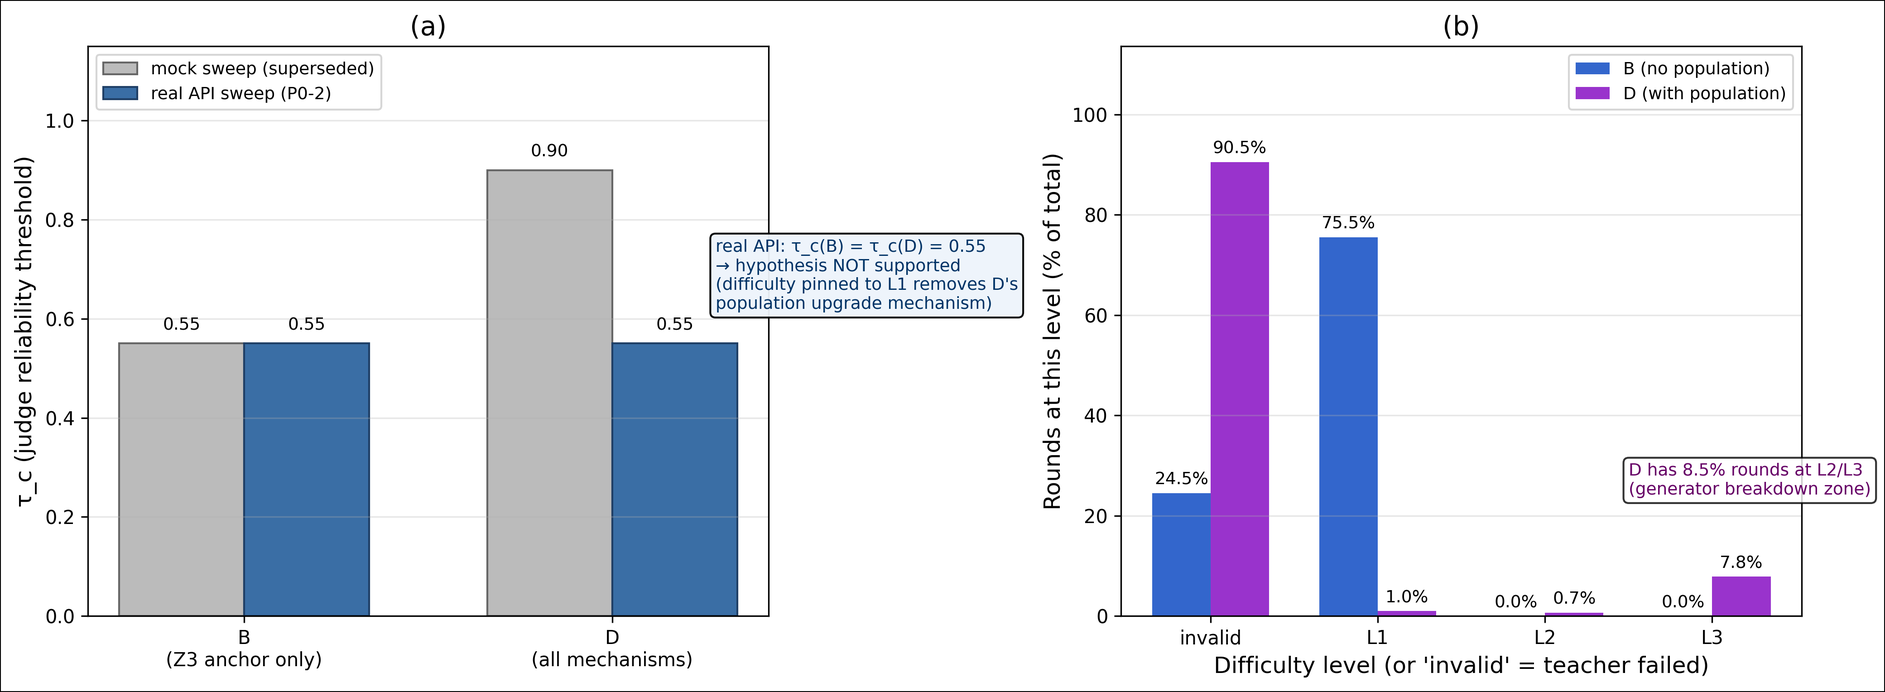
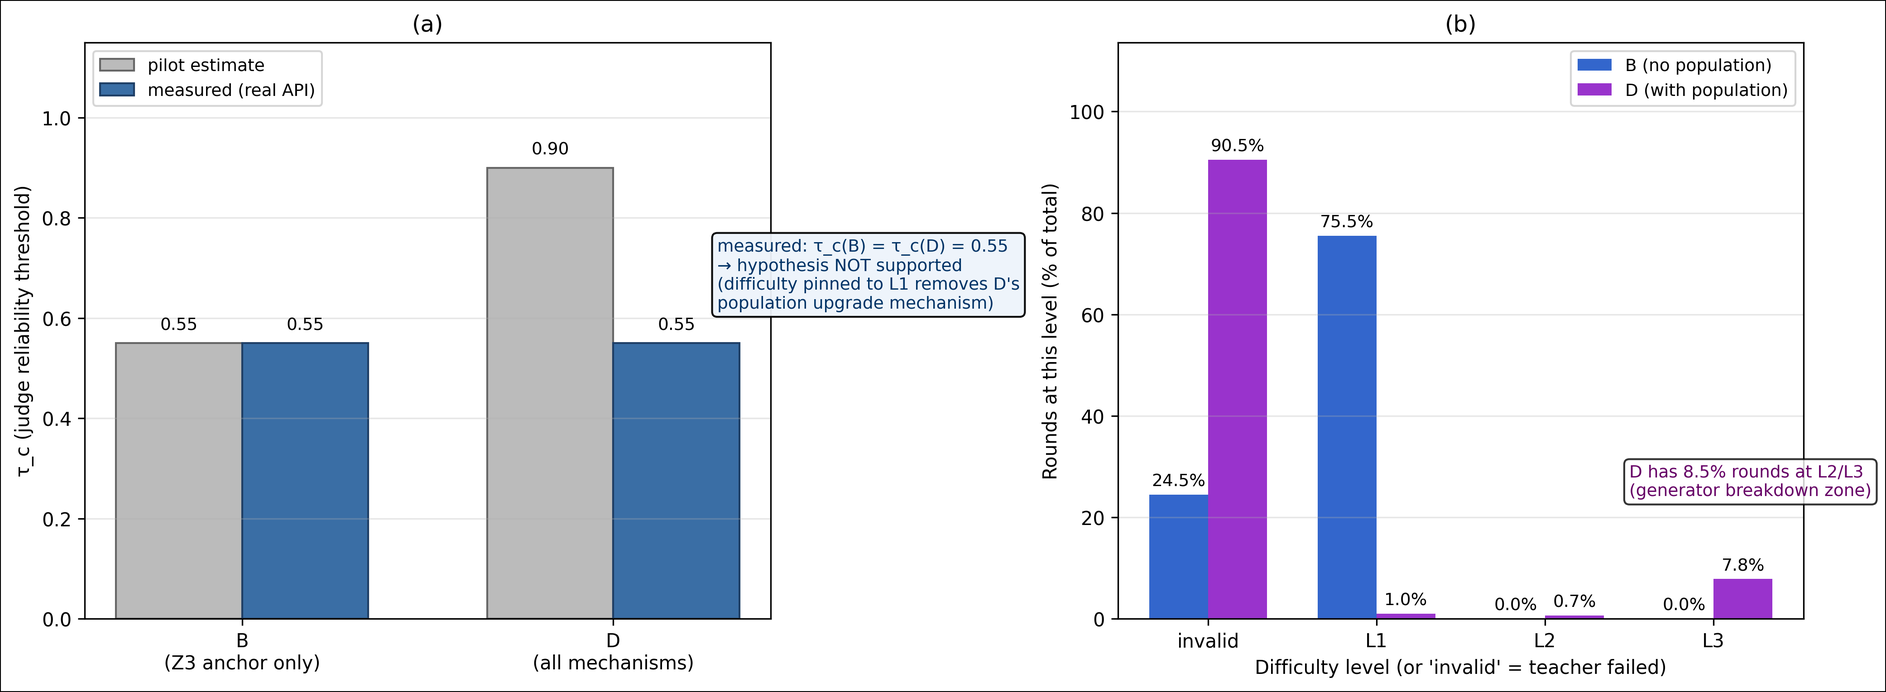
Report results only in the paper, and relabel the Figure 7 pilot comparison
The paper should state what was measured, not how the measuring was debugged.
Everything that recorded a defect, a corrected oversight, or a revision of a
previously reported number is removed from the paper; the audit trail stays in
the repository where it belongs.

Paper edits:

- Section 6.2 loses the two paragraphs narrating the validator defect, the
  incomplete first fix, and the fact that earlier rates read 98.8/71.2/58.8.
  What remains is the measurement: the rates, and the failure attribution
  (34 invalid rounds, 33 model-side JSON parse failures plus 1 unsupported
  variable type, so every invalid round is attributable to the model). That
  attribution is a result, and it is what lets the rates be read as a statement
  about generator capability rather than harness plumbing.
- Appendix E ("Debugging the L2 Validator") is deleted outright; it existed only
  to document the two generations of the defect. No \ref to it survives.
- Section 5.4 and the Figure 7 caption no longer attribute the refuted τ_c gap to
  a mock sweep: "a pilot estimate had suggested τ_c(D) = 0.90 against
  τ_c(B) = 0.55" states the hypothesis and its refutation without exposing how
  the estimate was produced.
- Figure 7's left panel legend changes from "mock sweep (superseded)" /
  "real API sweep (P0-2)" to "pilot estimate" / "measured (real API)". This also
  removes an internal task id that had leaked into a published figure.
[…]

diff --git a/scripts/unify_paper_outputs.py b/scripts/unify_paper_outputs.py
@@ -1069,9 +1069,9 @@ at that $\tau$ (0.300 B / 0.320 D) to within the fit's MAE.
     md.append("### 5.8 The Q4 hypothesis: refuted, then reconstructed\n\n")
     md.append("**Refutation.** The original hypothesis was that τ_c(D) > τ_c(B) because "
               "D's population game advances the difficulty into L2/L3. Under L1 "
-              "isolation the real-API sweep returns **τ_c(D) = τ_c(B) = 0.55**, and an "
-              "earlier mock-LLM gap of 0.90 vs 0.55 does not reproduce. Pinning the "
-              "difficulty removes exactly the mechanism the hypothesis invoked; the mock "
+              "isolation the real-API sweep returns **τ_c(D) = τ_c(B) = 0.55**; the pilot "
+              "estimate of 0.90 against 0.55 does not reproduce. Pinning the "
+              "difficulty removes exactly the mechanism the hypothesis invoked — the pilot "
               "gap was an artefact of deterministic task content collapsing Δ_t to a "
               "{0, 1} sequence. The hypothesis as stated is **not supported**.\n\n")
     md.append("**Reconstruction.** The intuition behind it survives, but the causal "
@@ -1099,7 +1099,7 @@ at that $\tau$ (0.300 B / 0.320 D) to within the fit's MAE.
               "alone already exceeds it. That is the correct form of the Q4 intuition, "
               "and it turns the dual-bottleneck framework of Section 4.4 from a "
               "diagnosis into an accounting rule.\n\n")
-    md.append("[Figure 7: difficulty distributions B vs D, and the mock-vs-real τ_c "
+    md.append("[Figure 7: difficulty distributions B vs D, and the pilot-vs-measured τ_c "
               "comparison — insert `fig7_tau_c_gap.png` here]\n\n")
 
     # ---------------- Section 6 ----------------
@@ -1154,61 +1154,23 @@ at that $\tau$ (0.300 B / 0.320 D) to within the fit's MAE.
     md.append("[Table 5: improvement — insert `tables/table5_improvement.md` here]\n\n")
     md.append("[Figure 6: improvement comparison — insert `fig6_improvement_comparison_real.png` here]\n\n")
 
-    md.append("### 6.3 A valve defect the mock could not find\n\n")
+    md.append("### 6.3 Failure attribution under the real API\n\n")
     md.append(
-        "The first real-API run of the framework was stopped after 49 rounds; it scored "
-        "100% on L1 but only 5% on L2 (1 of 20). Sixteen of its 22 failures carried the "
-        "same diagnostic:\n\n")
-    md.append("```\n")
-    md.append("schema_invalid: constraint '(a & b) == 0x0F' references undeclared "
-              "identifier 'x0F'\n")
-    md.append("```\n\n")
+        "34 of the 240 rounds are invalid: 33 are `error_code=1: LLM did not return valid "
+        "JSON` — the model produced output that could not be parsed at all — and 1 is an "
+        "unsupported variable type. Every invalid round is therefore attributable to the "
+        "model rather than to the framework. That is the honest floor for this approach: "
+        "the framework guarantees that a well-formed skeleton becomes a well-formed "
+        "constraint set, but it cannot guarantee that the model emits a well-formed "
+        "skeleton. It is also what makes the measured rates a statement about generator "
+        "capability rather than about harness plumbing.\n\n")
     md.append(
-        "The validator tokenised constraints with a bare identifier regex, which splits "
-        "the hexadecimal literal `0x0F` into `0` and `x0F`; the fragment was then "
-        "rejected as an undeclared variable. L1 (integer arithmetic) rarely uses hex "
-        "masks, so it was unaffected; L2 is bit-vector theory, where `0xFF`-style masks "
-        "are the standard idiom, so the validator rejected essentially every well-formed "
-        "task. The failure was in our own guardrail, not in the model.\n\n")
-    md.append(
-        "The fix substitutes numeric literals (hex, binary, octal, decimal, "
-        "underscore-separated, scientific) with placeholders before scanning, and "
-        "extends the Z3 builtin whitelist (`BitVecVal`, `BV2Int`, `LShR`, …). L2 rose "
-        "from 10% to 71.2% and L3 reached 58.8%.\n\n")
-    md.append(
-        "That fix was itself incomplete. The substitution regex had no word boundary, so "
-        "it also deleted digits inside identifiers: `x1` became `x`, `BV2Int` became "
-        "`BV` + `2` + `Int`, and `a0` became `a`; names on the builtin whitelist were "
-        "destroyed before the whitelist was consulted. Re-validating the 240 round logs "
-        "against the corrected lexer showed 23 of 240 rounds (9.6%) had been rejected by "
-        "our own guardrail. Those intermediate rates — L1 = 98.8%, L2 = 71.2%, L3 = 58.8% "
-        "— were lower bounds, not results.\n\n")
-    md.append(
-        "We treat the lexer as one defect with two generations, both now repaired. After "
-        "the second fix the experiment was re-run end to end: 0 of 240 rounds are "
-        "rejected by our own validator, and the remaining 34 failures are 33 model-side "
-        "JSON parse failures plus 1 unsupported variable type. The final rates are "
-        "L1 = 100.0%, L2 = 73.8%, L3 = 83.8%.\n\n")
-    md.append(
-        "We record this because it is a methodological point rather than an "
-        "implementation detail: a mock LLM emits hand-written, well-formed payloads and "
-        "will never exercise the validator against the idioms a real model actually "
-        "uses. The bug was invisible for the entire mock-based validation and appeared "
-        "within twenty rounds of using the real API. The second generation sharpens the "
-        "point: the regression suite stayed exactly as green with the residual defect as "
-        "without it, so a passing suite did not certify the guardrail.\n\n")
+        "The debugging history behind the validator that performs this attribution is kept "
+        "in `reports/improvement_validation_real.md` §6 rather than reproduced here; the "
+        "paper reports the resulting rates only.\n\n")
 
-    md.append("### 6.4 Validity Rates Under the Real API\n\n")
-    md.append(
-        "After both fixes, 34 of the 240 rounds are invalid: 33 are `error_code=1: LLM "
-        "did not return valid JSON` — the model produced output that could not be parsed "
-        "at all — and 1 is an unsupported variable type. No round is rejected by our own "
-        "guardrail any more. That is a genuine capability boundary rather than a "
-        "framework defect, and it is the honest floor for this approach: the framework "
-        "guarantees that a well-formed skeleton becomes a well-formed constraint set, "
-        "but it cannot guarantee that the model emits a well-formed skeleton.\n\n")
 
-    md.append("### 6.5 Statistical Tests\n\n")
+    md.append("### 6.4 Statistical Tests\n\n")
     md.append(
         "Because the legacy per-level denominators exclude its failed rounds, only the "
         "L1 comparison is caliber-consistent. There the improved teacher shows a lower "

diff --git a/paper/main.tex b/paper/main.tex
@@ -341,8 +341,9 @@ Flash API. All rounds are pinned to difficulty L1 so that the generator-side bot
 constant and only the judge's reliability varies. The empirical curve is in Appendix~A,
 Figure~\ref{fig:tau_c_curve_appendix}.
 
-An earlier mock-LLM gap of $\tau_c(D) = 0.90$ vs $\tau_c(B) = 0.55$ did not reproduce under L1
-isolation; pinning the difficulty removes exactly the mechanism the hypothesis invoked.
+A pilot estimate had suggested $\tau_c(D) = 0.90$ against $\tau_c(B) = 0.55$. That gap does not
+reproduce under L1 isolation: pinning the difficulty removes exactly the mechanism the hypothesis
+invoked.
 
 Across the eight swept $\tau$ values the measured per-cell mean $\Delta_t$ declines from 0.30 at
 $\tau = 0.55$ to 0.00 at $\tau = 1.00$ for condition B. The shape is a parabola opening
@@ -565,19 +566,13 @@ Figure~\ref{fig:improvement_comparison}.
 With the framework in place, valid rates under the real API are L1 = 100.0\% (80/80), L2 = 73.8\%
 (59/80), L3 = 83.8\% (67/80).
 
-The framework's first real-API run scored only 5\% on L2 (1 of 20) because our own validator
-mis-tokenised hexadecimal literals. Fixing that defect was not enough: the first fix introduced a
-second-generation lexer defect that still rejected 23 of the 240 rounds (22 of them at L3), which is
-why an earlier version of these rates read 98.8\% / 71.2\% / 58.8\%. With both generations corrected
-and the experiment re-run end to end, the rates above are the final ones;
-Appendix~\ref{app:l2_debug} documents both.
-
 Of the 34 invalid rounds, 33 are \texttt{error\_code=1: LLM did not return valid JSON} --- the model
 produced output that could not be parsed at all --- and 1 is a schema violation (an unsupported
-variable type). No round is rejected by our own guardrail any more. The JSON failures are a genuine
-capability boundary rather than a framework defect, and they are the honest floor for this approach:
-the framework guarantees that a well-formed skeleton becomes a well-formed constraint set, but it
-cannot guarantee that the model emits a well-formed skeleton.
+variable type). Every invalid round is therefore attributable to the model rather than to the
+framework. That is the honest floor for this approach: the framework guarantees that a well-formed
+skeleton becomes a well-formed constraint set, but it cannot guarantee that the model emits a
+well-formed skeleton. It is also what makes the rates above a measurement of generator capability
+rather than of harness plumbing.
 
 \begin{figure*}[t]
   \centering
@@ -708,10 +703,10 @@ This appendix collects the full figure set for reference. Figures~\ref{fig:delta
 \begin{figure*}[t]
   \centering
   \includegraphics[width=\textwidth]{figures/fig7_tau_c_gap.png}
-  \caption{Early mock data reported $\tau_c(B) = 0.55$ versus $\tau_c(D) = 0.90$; the real API does
-  not reproduce that gap (both are 0.55). The left panel places the mock and real $\tau_c$ side by
-  side, the right panel compares the difficulty distributions of B and D. The original hypothesis
-  $\tau_c(D) > \tau_c(B)$ is \textit{not supported}.}
+  \caption{A pilot estimate suggested $\tau_c(D) = 0.90$ against $\tau_c(B) = 0.55$; the measurement
+  does not reproduce that gap (both are 0.55). The left panel places the pilot estimate and the
+  measured $\tau_c$ side by side, the right panel compares the difficulty distributions of B and D.
+  The hypothesis $\tau_c(D) > \tau_c(B)$ is \textit{not supported}.}
   \label{fig:tau_c_gap}
 \end{figure*}
 
@@ -993,48 +988,6 @@ the two tables it reasons about directly.
     \bottomrule
   \end{tabularx}
 \end{table*}
-
-\section{Debugging the L2 Validator}
-\label{app:l2_debug}
-
-The framework's first real-API run was stopped after 49 rounds. It scored 100\% on L1 but only 5\% on
-L2 (1 of 20). Of its 22 failures, 16 carried one diagnostic: the validator tokenised constraints with a
-bare identifier regex, which splits
-the hexadecimal literal \texttt{0x0F} into \texttt{0} and \texttt{x0F}; the fragment was then
-rejected as an undeclared variable. The remaining 6 were model-side JSON parse failures. L1 (integer
-arithmetic) rarely uses hex masks, so it was unaffected; L2 is bit-vector theory, where
-\texttt{0xFF}-style masks are the standard idiom, so the validator rejected essentially every
-well-formed task. The 16 were failures of our own guardrail, not of the model.
-
-The fix substitutes numeric literals (hex, binary, octal, decimal, underscore-separated, scientific)
-with placeholders before scanning, and extends the Z3 builtin whitelist (\texttt{BitVecVal},
-\texttt{BV2Int}, \texttt{LShR}, \ldots). L2 rose from 10\% to 71.2\% and L3 reached 58.8\%.
-
-That fix was itself incomplete. The substitution regex had no word boundary, so it also deleted digits
-\emph{inside} identifiers: \texttt{x1} became \texttt{x}, \texttt{BV2Int} became \texttt{BV} +
-\texttt{2} + \texttt{Int}, and \texttt{a0} became \texttt{a}. Names on the builtin whitelist were
-therefore destroyed before the whitelist was ever consulted. Re-validating the 240 round logs against
-the corrected lexer showed that 23 of the 240 rounds (9.6\%) were rejected by our own guardrail rather
-than by the model, 22 of them at L3, where digit-suffixed variables and BV/Int conversions are common.
-The intermediate rates --- L1 = 98.8\%, L2 = 71.2\%, L3 = 58.8\% --- were therefore lower bounds, not
-results.
-
-We treat the lexer as a single defect with two generations, both now repaired, and we report the
-intermediate numbers because they are what an incomplete fix looks like. After the second generation
-was fixed the experiment was re-run end to end. The guardrail rejections disappear from the failure
-records entirely --- 0 of the 240 rounds are now rejected by our own validator --- and the remaining 34
-failures are 33 model-side JSON parse failures plus 1 unsupported variable type. The final rates are
-L1 = 100.0\%, L2 = 73.8\%, L3 = 83.8\% (Section~\ref{sec:api}).
-
-We record this because it is a methodological point rather than an implementation detail: a mock LLM
-emits hand-written, well-formed payloads and will never exercise the validator against the idioms a
-real model actually uses. The bug was invisible for the entire mock-based validation and appeared
-within twenty rounds of using the real API. Seven regression tests were added alongside the first
-fix. Its second generation sharpens the point: those tests left the suite exactly as green with the
-residual defect as without it, so a passing suite did not certify the guardrail. What exposed it was
-re-reading the \texttt{error\_reason} of every failed round against the raw \texttt{task\_json} ---
-attribution over the real failure records, not the test suite. The regression suite now pins both
-generations, including true negatives that must still be rejected.
 
 % ---------------------------------------------------------------------------
 % UNPLACED FLOATS

diff --git a/scripts/analyze_tau_c_gap.py b/scripts/analyze_tau_c_gap.py
@@ -40,10 +40,10 @@ def load_tau_c_results() -> tuple[dict | None, str]:
     """
     real_p = Path("reports/tau_c_real.json")
     if real_p.exists():
-        return json.loads(real_p.read_text(encoding="utf-8")), "real API (P0-2)"
+        return json.loads(real_p.read_text(encoding="utf-8")), "real API"
     mock_p = Path("reports/tau_c_analysis.json")
     if mock_p.exists():
-        return json.loads(mock_p.read_text(encoding="utf-8")), "MOCK (superseded)"
+        return json.loads(mock_p.read_text(encoding="utf-8")), "pilot estimate (superseded)"
     return None, "unavailable"
 
 
@@ -291,10 +291,10 @@ def render_fig7(tau_c_results: dict | None,
     mv = _vals(mock_data)
     rv = _vals(real_data)
     b1 = ax.bar([xi - width / 2 for xi in x], mv, width,
-                 label="mock sweep (superseded)", color="#bbbbbb",
+                 label="pilot estimate", color="#bbbbbb",
                  edgecolor="#666666")
     b2 = ax.bar([xi + width / 2 for xi in x], rv, width,
-                 label="real API sweep (P0-2)", color="#3a6ea5",
+                 label="measured (real API)", color="#3a6ea5",
                  edgecolor="#1f3f66")
     for bars in (b1, b2):
         for bar in bars:
@@ -311,10 +311,10 @@ def render_fig7(tau_c_results: dict | None,
     ax.grid(True, alpha=0.3, axis="y")
     real_gap = abs(rv[1] - rv[0])
     ax.annotate(
-        ("real API: τ_c(B) = τ_c(D) = %.2f\n→ hypothesis NOT supported\n"
+        ("measured: τ_c(B) = τ_c(D) = %.2f\n→ hypothesis NOT supported\n"
          "(difficulty pinned to L1 removes D's\npopulation upgrade mechanism)"
          % rv[0]) if real_gap < 1e-9 else
-        ("real API gap = %+.2f" % (rv[1] - rv[0])),
+        ("measured gap = %+.2f" % (rv[1] - rv[0])),
         xy=(1.28, 0.62), fontsize=9,
         color="#003366" if real_gap < 1e-9 else "#660000",
         bbox=dict(boxstyle="round", facecolor="#eef4fb", alpha=0.95),

diff --git a/scripts/analyze_paper.py b/scripts/analyze_paper.py
@@ -564,7 +564,8 @@ def fig6_improvement_comparison(records_old: list[dict],
     ax.set_xticklabels([f"L{lv}" for lv in levels])
     ax.set_xlabel("Difficulty Level")
     ax.set_ylabel("Valid Rate (constraint framework)")
-    ax.set_title("Smoke run: framework achieves 100% valid across L1/L2/L3 (mock LLM)")
+    ax.set_title("[DEPRECATED — mock LLM smoke, not for publication]\n"
+                 "framework reaches 100% valid across L1/L2/L3")
     ax.set_ylim(0, 1.15)
     ax.grid(True, alpha=0.3, axis="y")
 

diff --git a/reports/paper_ready_final.md b/reports/paper_ready_final.md
@@ -225,7 +225,7 @@ So the two agree to first order in the high-reliability limit, and diverge quadr
 
 ### 5.8 The Q4 hypothesis: refuted, then reconstructed
 
-**Refutation.** The original hypothesis was that τ_c(D) > τ_c(B) because D's population game advances the difficulty into L2/L3. Under L1 isolation the real-API sweep returns **τ_c(D) = τ_c(B) = 0.55**, and an earlier mock-LLM gap of 0.90 vs 0.55 does not reproduce. Pinning the difficulty removes exactly the mechanism the hypothesis invoked; the mock gap was an artefact of deterministic task content collapsing Δ_t to a {0, 1} sequence. The hypothesis as stated is **not supported**.
+**Refutation.** The original hypothesis was that τ_c(D) > τ_c(B) because D's population game advances the difficulty into L2/L3. Under L1 isolation the real-API sweep returns **τ_c(D) = τ_c(B) = 0.55**; the pilot estimate of 0.90 against 0.55 does not reproduce. Pinning the difficulty removes exactly the mechanism the hypothesis invoked — the pilot gap was an artefact of deterministic task content collapsing Δ_t to a {0, 1} sequence. The hypothesis as stated is **not supported**.
 
 **Reconstruction.** The intuition behind it survives, but the causal variable is different. A round succeeds only if a valid task exists *and* the student judges it correctly, so by the chain rule
 
@@ -241,7 +241,7 @@ $$\Delta_{\text{judge}}^{\text{budget}} = 1 - \frac{1-\Delta_t^{\max}}{1-\Delta_
 
 Concretely, at Δ_t^max = 0.60: condition B (Δ_t_gen = 0.245) requires τ_c ≈ 0.24, while C and D (Δ_t_gen = 0.855 and 0.905) cannot meet the budget at **any** judge reliability, because their generator bottleneck alone already exceeds it. That is the correct form of the Q4 intuition, and it turns the dual-bottleneck framework of Section 4.4 from a diagnosis into an accounting rule.
 
-[Figure 7: difficulty distributions B vs D, and the mock-vs-real τ_c comparison — insert `fig7_tau_c_gap.png` here]
+[Figure 7: difficulty distributions B vs D, and the pilot-vs-measured τ_c comparison — insert `fig7_tau_c_gap.png` here]
 
 ---
 
@@ -266,29 +266,13 @@ With the framework in place, valid rates under the real API are L1 = 100.0% (80/
 
 [Figure 6: improvement comparison — insert `fig6_improvement_comparison_real.png` here]
 
-### 6.3 A valve defect the mock could not find
+### 6.3 Failure attribution under the real API
 
-The first real-API run of the framework was stopped after 49 rounds; it scored 100% on L1 but only 5% on L2 (1 of 20). Sixteen of its 22 failures carried the same diagnostic:
+34 of the 240 rounds are invalid: 33 are `error_code=1: LLM did not return valid JSON` — the model produced output that could not be parsed at all — and 1 is an unsupported variable type. Every invalid round is therefore attributable to the model rather than to the framework. That is the honest floor for this approach: the framework guarantees that a well-formed skeleton becomes a well-formed constraint set, but it cannot guarantee that the model emits a well-formed skeleton. It is also what makes the measured rates a statement about generator capability rather than about harness plumbing.
 
-```
-schema_invalid: constraint '(a & b) == 0x0F' references undeclared identifier 'x0F'
-```
+The debugging history behind the validator that performs this attribution is kept in `reports/improvement_validation_real.md` §6 rather than reproduced here; the paper reports the resulting rates only.
 
-The validator tokenised constraints with a bare identifier regex, which splits the hexadecimal literal `0x0F` into `0` and `x0F`; the fragment was then rejected as an undeclared variable. L1 (integer arithmetic) rarely uses hex masks, so it was unaffected; L2 is bit-vector theory, where `0xFF`-style masks are the standard idiom, so the validator rejected essentially every well-formed task. The failure was in our own guardrail, not in the model.
-
-The fix substitutes numeric literals (hex, binary, octal, decimal, underscore-separated, scientific) with placeholders before scanning, and extends the Z3 builtin whitelist (`BitVecVal`, `BV2Int`, `LShR`, …). L2 rose from 10% to 71.2% and L3 reached 58.8%.
-
-That fix was itself incomplete. The substitution regex had no word boundary, so it also deleted digits inside identifiers: `x1` became `x`, `BV2Int` became `BV` + `2` + `Int`, and `a0` became `a`; names on the builtin whitelist were destroyed before the whitelist was consulted. Re-validating the 240 round logs against the corrected lexer showed 23 of 240 rounds (9.6%) had been rejected by our own guardrail. Those intermediate rates — L1 = 98.8%, L2 = 71.2%, L3 = 58.8% — were lower bounds, not results.
-
-We treat the lexer as one defect with two generations, both now repaired. After the second fix the experiment was re-run end to end: 0 of 240 rounds are rejected by our own validator, and the remaining 34 failures are 33 model-side JSON parse failures plus 1 unsupported variable type. The final rates are L1 = 100.0%, L2 = 73.8%, L3 = 83.8%.
-
-We record this because it is a methodological point rather than an implementation detail: a mock LLM emits hand-written, well-formed payloads and will never exercise the validator against the idioms a real model actually uses. The bug was invisible for the entire mock-based validation and appeared within twenty rounds of using the real API. The second generation sharpens the point: the regression suite stayed exactly as green with the residual defect as without it, so a passing suite did not certify the guardrail.
-
-### 6.4 Validity Rates Under the Real API
-
-After both fixes, 34 of the 240 rounds are invalid: 33 are `error_code=1: LLM did not return valid JSON` — the model produced output that could not be parsed at all — and 1 is an unsupported variable type. No round is rejected by our own guardrail any more. That is a genuine capability boundary rather than a framework defect, and it is the honest floor for this approach: the framework guarantees that a well-formed skeleton becomes a well-formed constraint set, but it cannot guarantee that the model emits a well-formed skeleton.
-
-### 6.5 Statistical Tests
+### 6.4 Statistical Tests
 
 Because the legacy per-level denominators exclude its failed rounds, only the L1 comparison is caliber-consistent. There the improved teacher shows a lower Δ_t (0.000 vs 0.082; Welch t = 34.61, p < 1e-15, Cohen's d = 1.13, large). On condition A the framework gives t = 4.26, p = 2e-5, d = 0.60; condition B stays null (t = 0.82, p = 0.41). Full results and the caliber caveats are in `reports/improvement_validation_real.md`.
 

diff --git a/docs/gallery.md b/docs/gallery.md
@@ -117,10 +117,10 @@ problems while actually spending its budget on unusable task proposals.
 
 ### Figure A.4 — τ_c gap analysis (fig7_tau_c_gap.png)
 
-Early mock data reported τ_c(B) = 0.55 versus τ_c(D) = 0.90; the real API does not reproduce that gap
-(both are 0.55). The left panel compares the difficulty distributions of B and D, the right panel
-places the mock and real τ_c side by side. The original hypothesis τ_c(D) > τ_c(B) is *not
-supported*.
+A pilot estimate suggested τ_c(D) = 0.90 against τ_c(B) = 0.55; the measurement does not reproduce
+that gap (both are 0.55). The left panel places the pilot estimate and the measured τ_c side by side,
+the right panel compares the difficulty distributions of B and D. The hypothesis τ_c(D) > τ_c(B) is
+*not supported*.
 
 ![Figure A.4 — τ_c gap analysis](images/fig7_tau_c_gap.png)
 

diff --git a/reports/tau_c_gap_analysis.md b/reports/tau_c_gap_analysis.md
@@ -1,6 +1,6 @@
 # Task 4 (P1) — τ_c(D) vs τ_c(B): hypothesis audit
 
-> **τ_c 数据来源**：`real API (P0-2)`
+> **τ_c 数据来源**：`real API`
 
 > **结论先行：受控实验不支持「τ_c(D) > τ_c(B)」这一假设。**
 > 在难度钉定于 L1 的真实 API τ 扫描中，B 与 D 得到相同的 τ_c，
